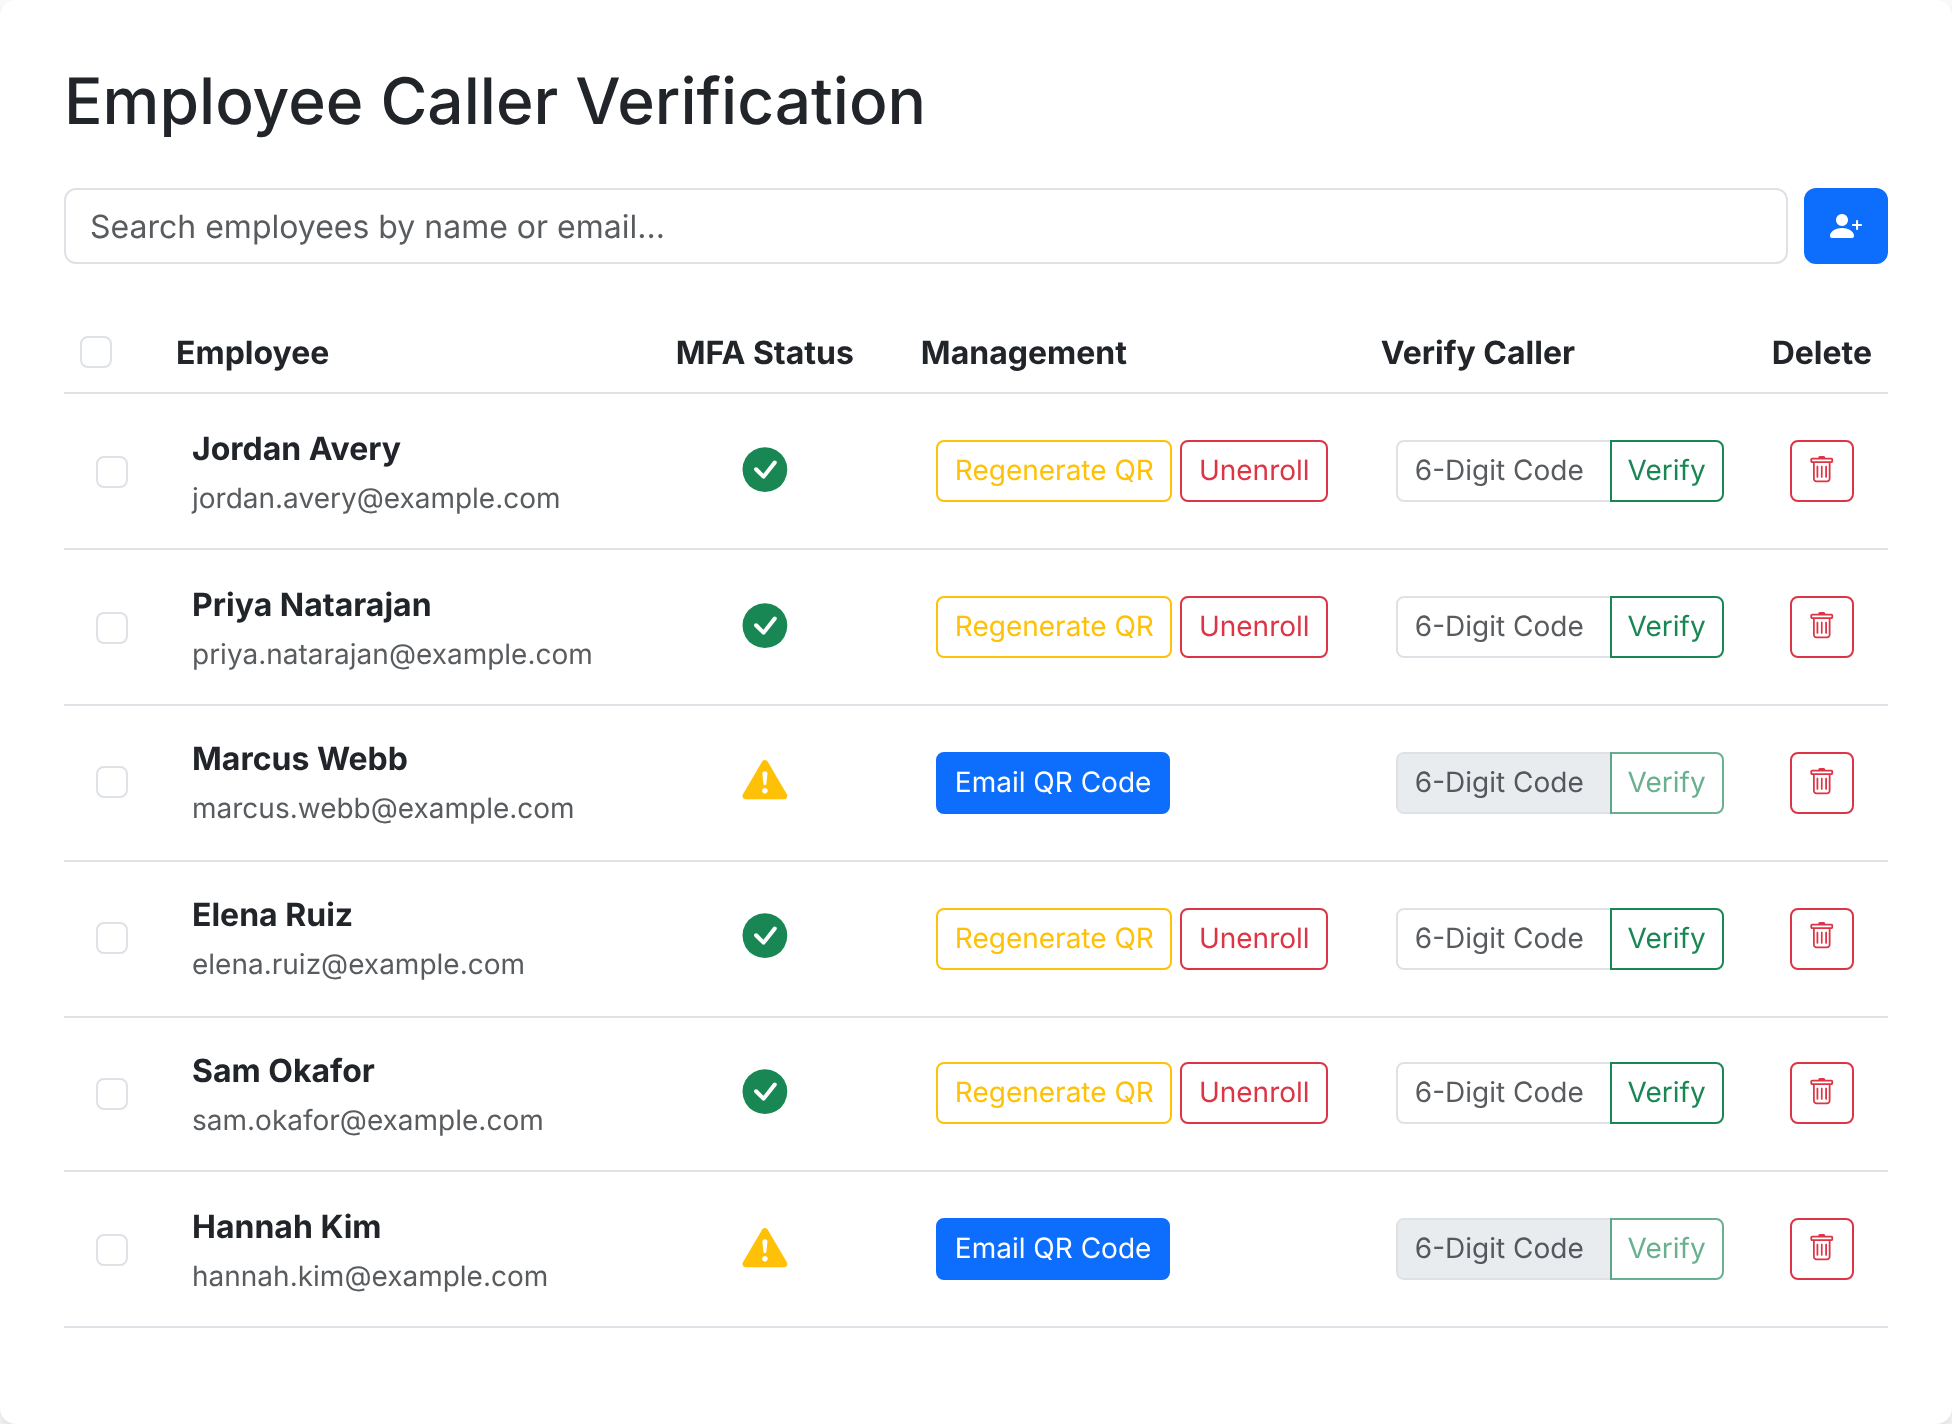
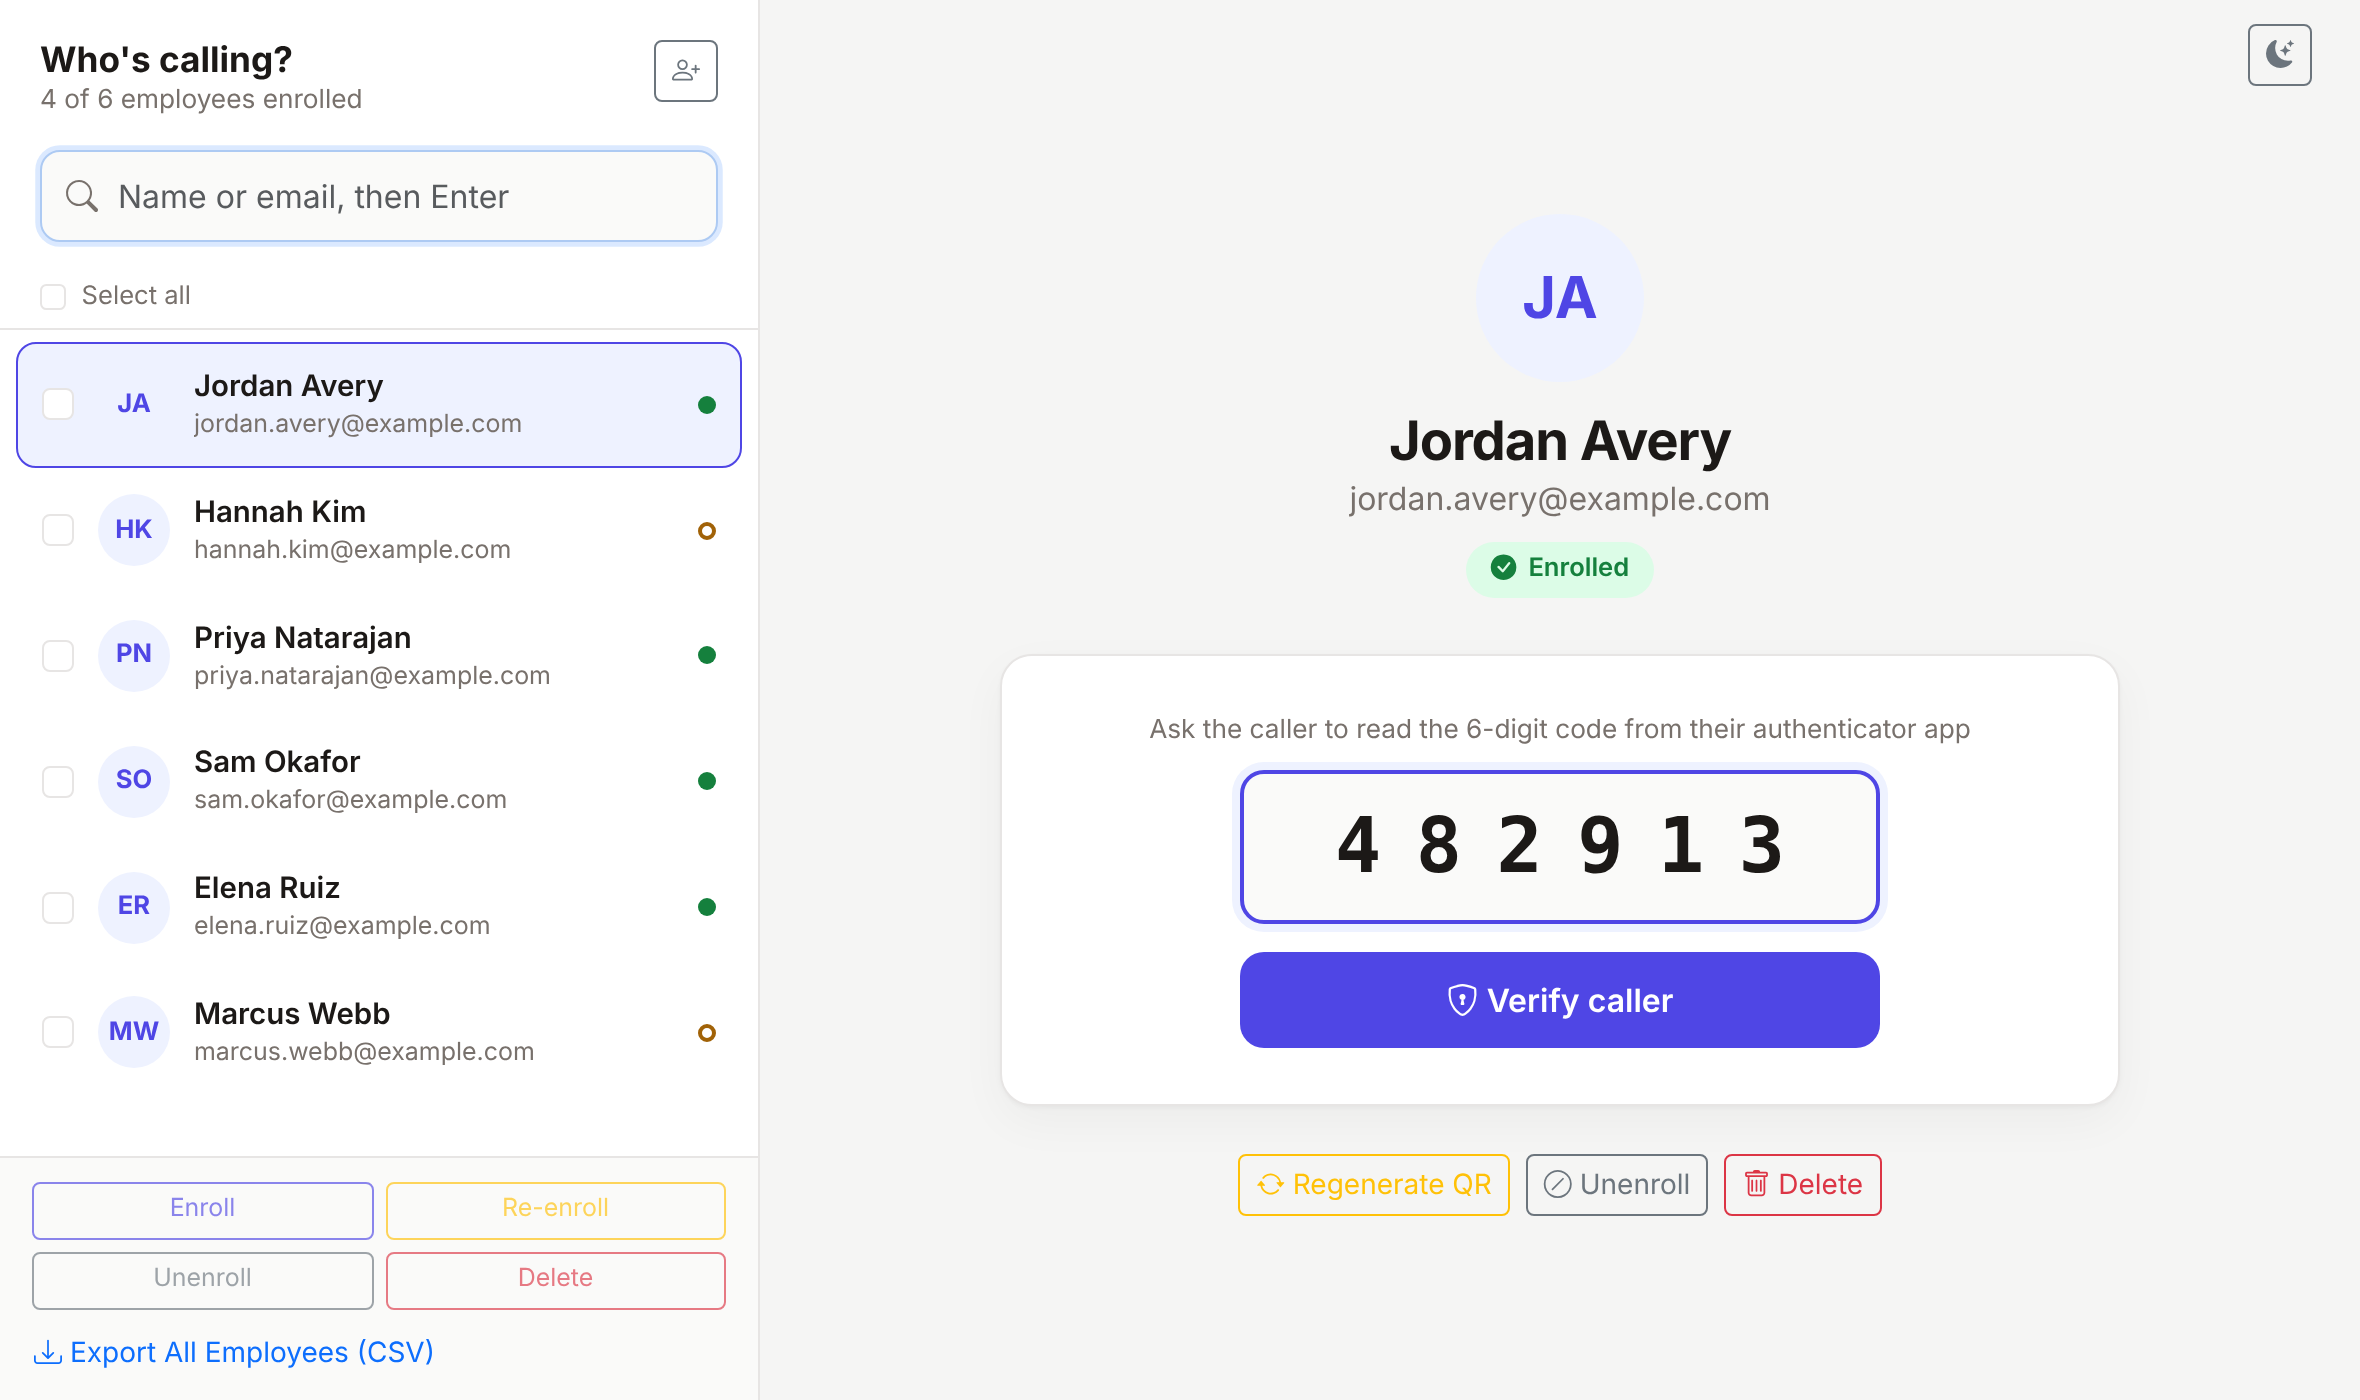
Refresh README proof image for the Call Desk dashboard
Recaptures the dashboard and verification results with the same demo
employees, now in the Call Desk layout. The board stacks the dashboard
full width above the two inline result banners, since the wider layout
would be unreadable squeezed into the old side-by-side column. Updates
the proof-board source and README alt text to match.

Claude-Session: https://claude.ai/code/session_01AuQsGvQr44T38MJ6EPQrnE

diff --git a/assets/readme/source/proof-board.html b/assets/readme/source/proof-board.html
@@ -1,6 +1,7 @@
 <!doctype html>
 <!-- Composition source for assets/readme/proof.png.
-     Screens are real captures of the verify dashboard running with demo employees.
+     Screens are real captures of the verify dashboard running with demo employees
+     (light theme, 1180x700 viewport at 2x; results are the inline .result banners).
      Re-export: render #board at 1200 CSS px wide, 2x scale. -->
 <html>
 <head>
@@ -11,34 +12,32 @@
     width: 1200px; box-sizing: border-box; padding: 40px 48px 44px;
     background: #0E1116; border-radius: 24px;
     font-family: -apple-system, BlinkMacSystemFont, "Segoe UI", sans-serif; color: #F2EFE8;
-    display: grid; grid-template-columns: 712px 1fr; gap: 36px;
   }
   .eyebrow { font: 17px/1 ui-monospace, SFMono-Regular, Menlo, monospace; letter-spacing: 2px; color: #8B95A3; margin: 0 0 16px; }
   .shot { display: block; width: 100%; border-radius: 12px; }
-  .side { display: flex; flex-direction: column; justify-content: center; gap: 30px; }
+  .note { margin: 14px 0 0; font-size: 18px; color: #8B95A3; }
+  .results { display: grid; grid-template-columns: 1fr 1fr; gap: 24px; margin-top: 32px; }
   .result-label { display: flex; align-items: center; gap: 10px; font-size: 22px; font-weight: 700; margin: 0 0 12px; }
   .dot { width: 12px; height: 12px; border-radius: 50%; }
   .ok .dot { background: #2EA66A; } .ok { color: #2EA66A; }
   .no .dot { background: #E5484D; } .no { color: #E5484D; }
-  .modal { border-radius: 10px; outline: 2px solid #2A313C; }
-  .note { margin: 14px 0 0; font-size: 18px; color: #8B95A3; }
+  .banner { padding: 14px; background: #fff; border-radius: 14px; }
+  .banner .shot { border-radius: 10px; }
 </style>
 </head>
 <body>
 <div id="board">
-  <div>
-    <p class="eyebrow">THE AGENT DASHBOARD</p>
-    <img class="shot" src="screens/dashboard.png" alt="">
-    <p class="note">Demo employees. One row per person: enroll, verify, manage.</p>
-  </div>
-  <div class="side">
+  <p class="eyebrow">THE AGENT DASHBOARD</p>
+  <img class="shot" src="screens/dashboard.png" alt="">
+  <p class="note">Demo employees. Find the caller, have them read their code, verify.</p>
+  <div class="results">
     <div>
       <p class="result-label ok"><span class="dot"></span>Right code</p>
-      <img class="shot modal" src="screens/verified-modal.png" alt="">
+      <div class="banner"><img class="shot" src="screens/verified.png" alt=""></div>
     </div>
     <div>
       <p class="result-label no"><span class="dot"></span>Wrong or stale code</p>
-      <img class="shot modal" src="screens/rejected-modal.png" alt="">
+      <div class="banner"><img class="shot" src="screens/rejected.png" alt=""></div>
     </div>
   </div>
 </div>

diff --git a/README.md b/README.md
@@ -12,7 +12,7 @@ an attacker calls the help desk, impersonates a real employee, and talks an
 agent into resetting their credentials.
 
 <p align="center">
-  <img src="./assets/readme/proof.png" width="100%" alt="The Vixxing agent dashboard listing demo employees with their MFA status, management buttons, and a 6-digit code field with a Verify button. A right code shows a Caller Verified dialog; a wrong or stale code shows Caller Not Verified: Invalid code. Do not proceed.">
+  <img src="./assets/readme/proof.png" width="100%" alt="The Vixxing agent dashboard: a searchable list of demo employees with enrollment status on the left, and the selected caller, Jordan Avery, on the right with a large 6-digit code field and a Verify caller button. A right code shows Caller verified, safe to proceed with the reset; a wrong or stale code shows Not verified: Invalid code. Do not proceed.">
 </p>
 
 ---
